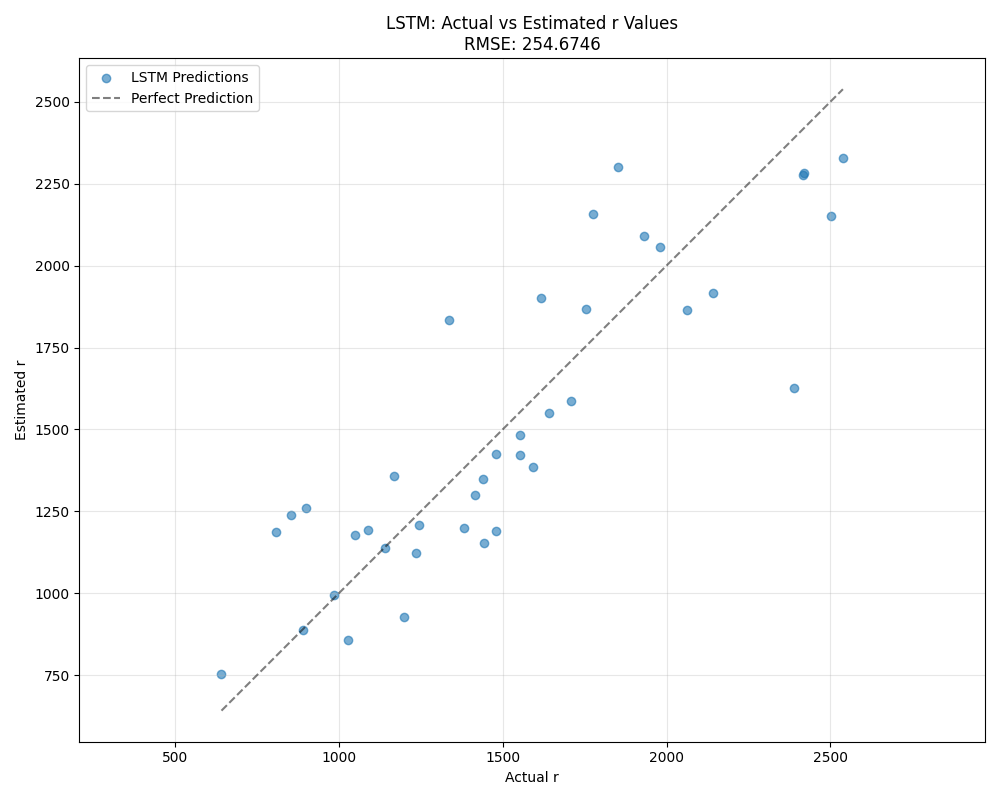
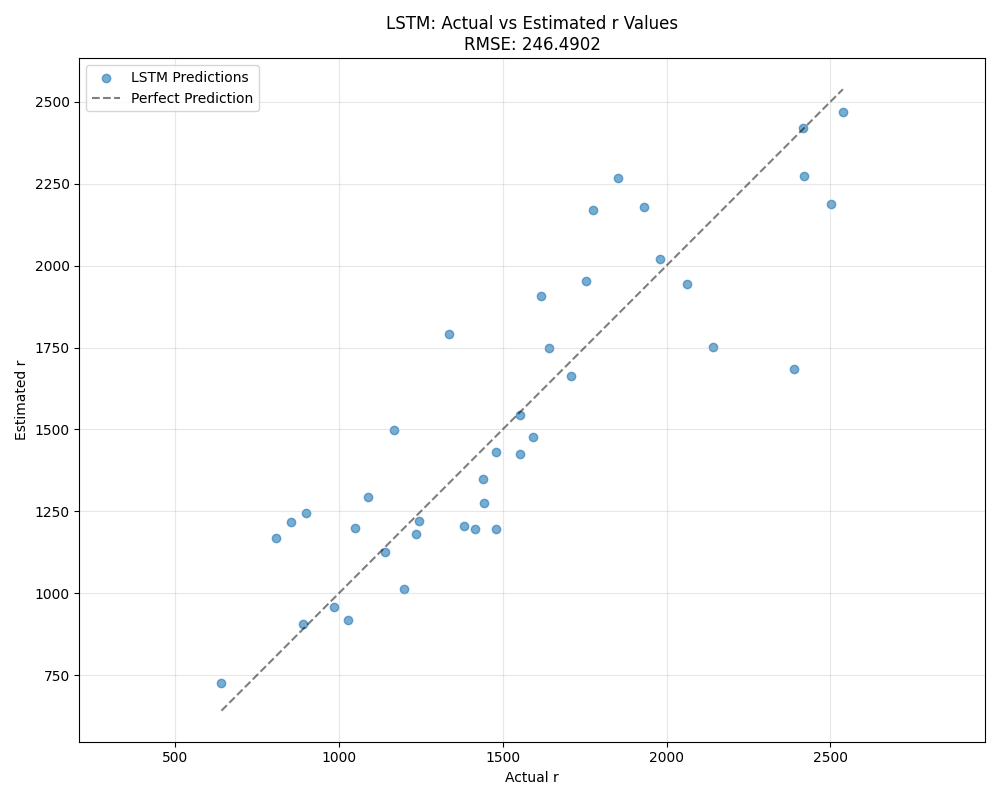
v2.1

diff --git a/src/config.py b/src/config.py
@@ -4,28 +4,28 @@ Configuration settings for the Position Estimation project
 
 # Model Configuration
 MODEL_CONFIG = {
-    'hidden_size': 64,
+    'hidden_size': 100,
     'num_layers': 2,
-    'dropout': 0.2,
+    'dropout': 0.3,
     'sequence_length': 10,
     'batch_size': 32,
     'learning_rate': 0.001,
-    'epochs': 100,
-    'patience': 20
+    'epochs': 300,
+    'patience': 30
 }
 
 # GRU Model Configuration
 GRU_CONFIG = {
     'hidden_dim': 64,
     'num_layers': 2,
-    'dropout': 0.2
+    'dropout': 0.3
 }
 
 # Training Configuration
 TRAINING_CONFIG = {
     'learning_rate': 0.001,
     'batch_size': 32,
-    'epochs': 100,
+    'epochs': 300,
     'weight_decay': 1e-5,
     'validation_split': 0.2,
     'random_seed': 42
